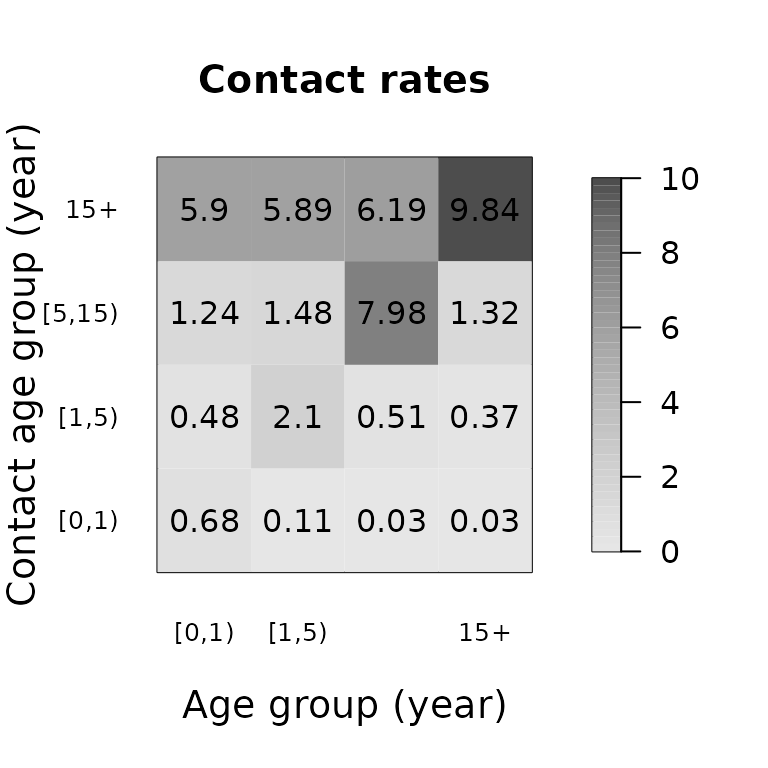
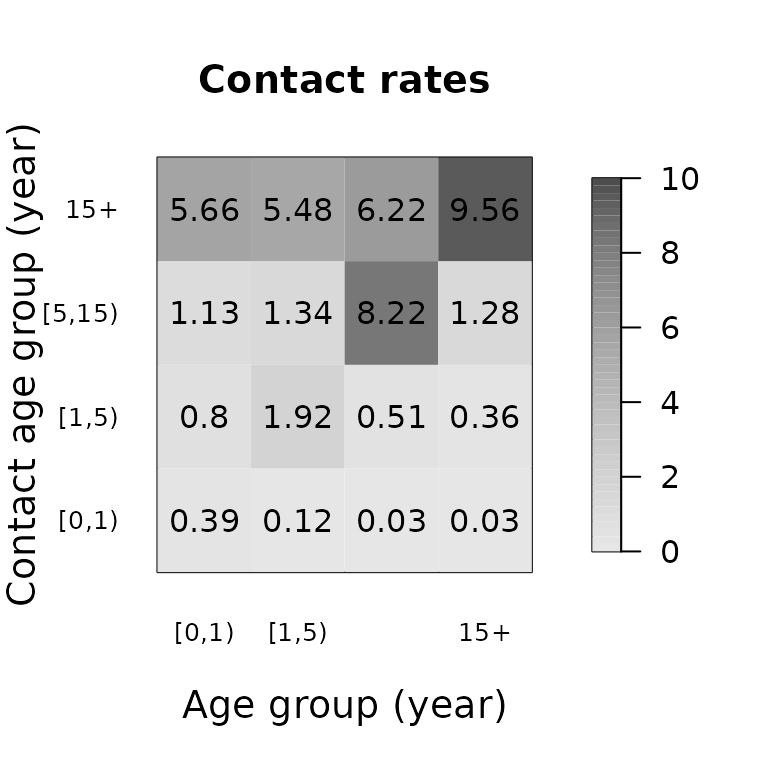
Deploying to gh-pages from @ epiforecasts/socialmixr@f06b87081190283db04ab74291e71a50c82ea5a8 🚀

diff --git a/articles/socialmixr.html b/articles/socialmixr.html
@@ -225,10 +225,10 @@ be obtained, for example the mean:</p>
 <span><span class="va">mr</span></span>
 <span><span class="co">#&gt;          contact.age.group</span></span>
 <span><span class="co">#&gt; age.group      [0,1)     [1,5)   [5,15)      15+</span></span>
-<span><span class="co">#&gt;    [0,1)  0.68492063 0.4810714 1.236706 5.900317</span></span>
-<span><span class="co">#&gt;    [1,5)  0.11479355 2.1042944 1.482383 5.890519</span></span>
-<span><span class="co">#&gt;    [5,15) 0.02886239 0.5146172 7.975903 6.191698</span></span>
-<span><span class="co">#&gt;    15+    0.03146580 0.3747132 1.321290 9.840593</span></span></code></pre></div>
+<span><span class="co">#&gt;    [0,1)  0.39045455 0.7964141 1.125606 5.660808</span></span>
+<span><span class="co">#&gt;    [1,5)  0.12093267 1.9200097 1.337577 5.484226</span></span>
+<span><span class="co">#&gt;    [5,15) 0.02594837 0.5099817 8.224624 6.216807</span></span>
+<span><span class="co">#&gt;    15+    0.03185196 0.3595805 1.277495 9.559024</span></span></code></pre></div>
 </div>
 <div class="section level2">
 <h2 id="demography">Demography<a class="anchor" aria-label="anchor" href="#demography"></a>

diff --git a/news/index.html b/news/index.html
@@ -60,6 +60,7 @@
 <a href="https://en.wikipedia.org/wiki/Cyclomatic_complexity" class="external-link">Cyclomatic complexity</a> of <code><a href="../reference/download_survey.html">download_survey()</a></code> has been reduced by externalising the <code>find_common_prefix()</code> function and failing early instead of relying on unnecessary if/else sequences</li>
 <li>More generous filename checks now pass files named e.g. “…_participants_common…” an not only “…participant_common…”</li>
 <li>The package now sets a custom user agent when downloading survey data (<a href="https://github.com/epiforecasts/socialmixr/issues/82" class="external-link">#82</a>).</li>
+<li>A problem was fixed where attempted joins of files could lead to blowing up memeory use (<a href="https://github.com/epiforecasts/socialmixr/issues/75" class="external-link">#75</a>).</li>
 </ul></div>
 </div>
     <div class="section level2">
